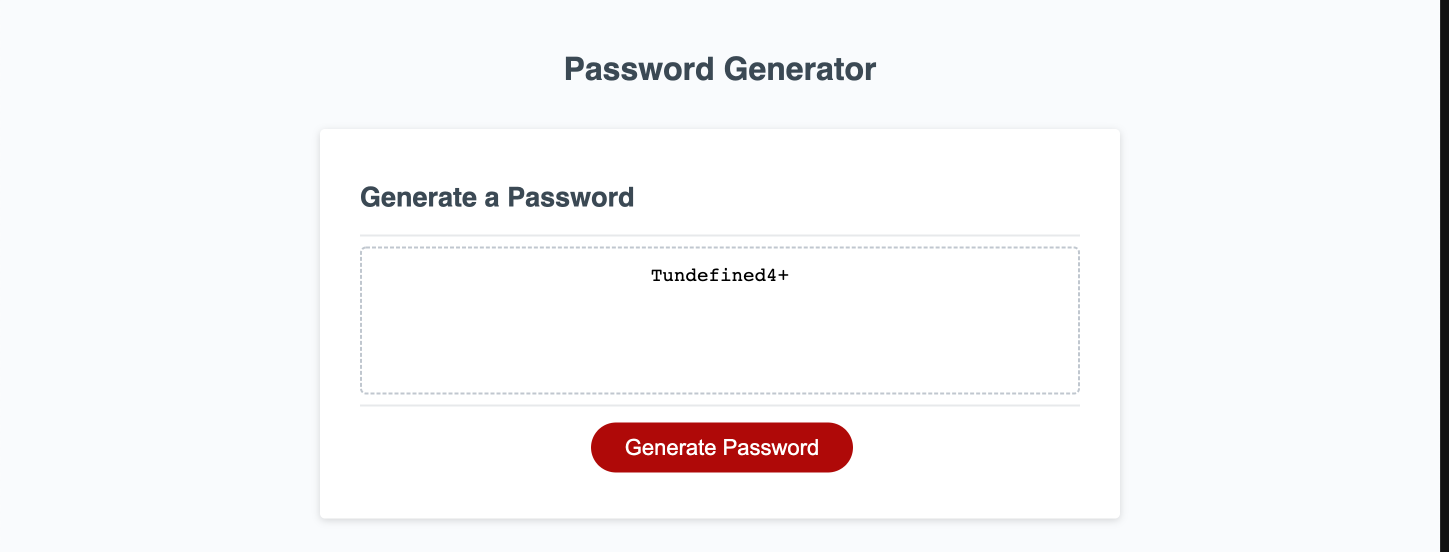
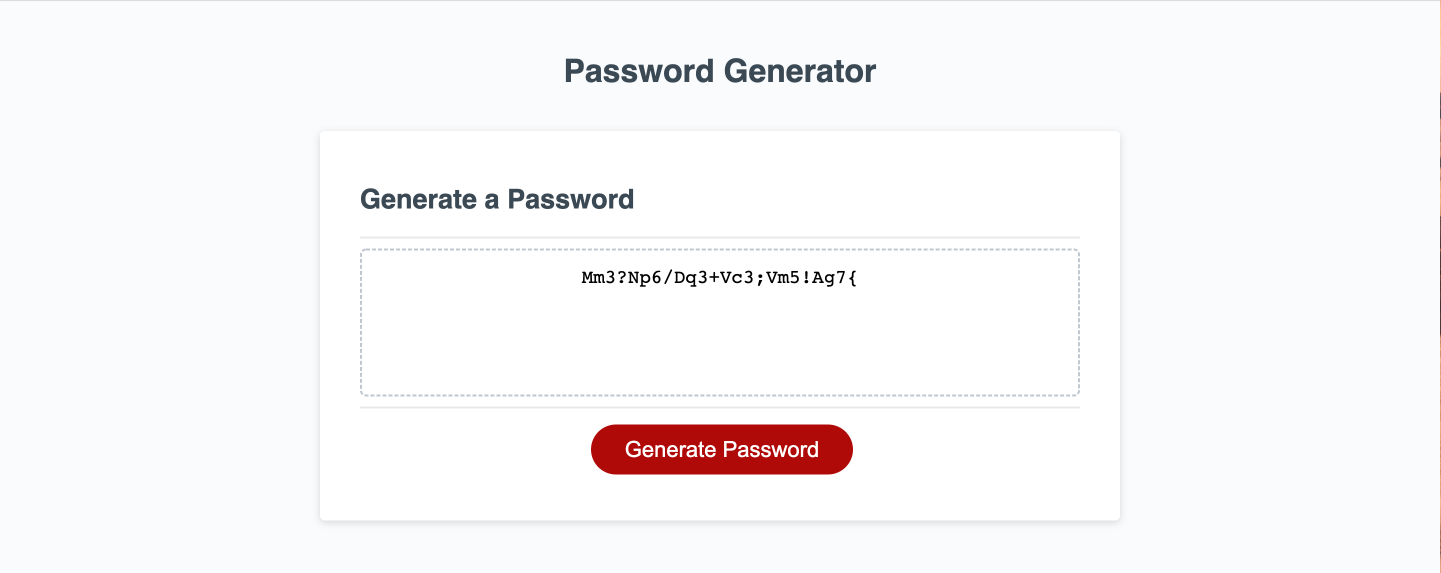
initial commit

diff --git a/Develop/script.js b/Develop/script.js
@@ -29,13 +29,13 @@ function generatePassword() {
     var passSpec = confirm("Does your password require speical characters?");
     for (i=0; i < passLength; i++){
       if(newPass.length < passLength){
-        if (passUpperCase){
+        if (passUpperCase){ 
           newPass += upperCase[Math.floor(Math.random() * upperCase.length)];
-        } if (passLowerCase){
-          newPass += lowerCase[Math.floor(Math.floor() * upperCase.length)];
-        } if (passNum) {
+        } if (passLowerCase){ 
+          newPass += lowerCase[Math.floor(Math.random() * lowerCase.length)];
+        } if (passNum) { 
           newPass += numChars[Math.floor(Math.random() * numChars.length)];
-        } if (passSpec){
+        } if (passSpec){ 
           newPass += specChars[Math.floor(Math.random() * specChars.length)];
         }
       } else {
